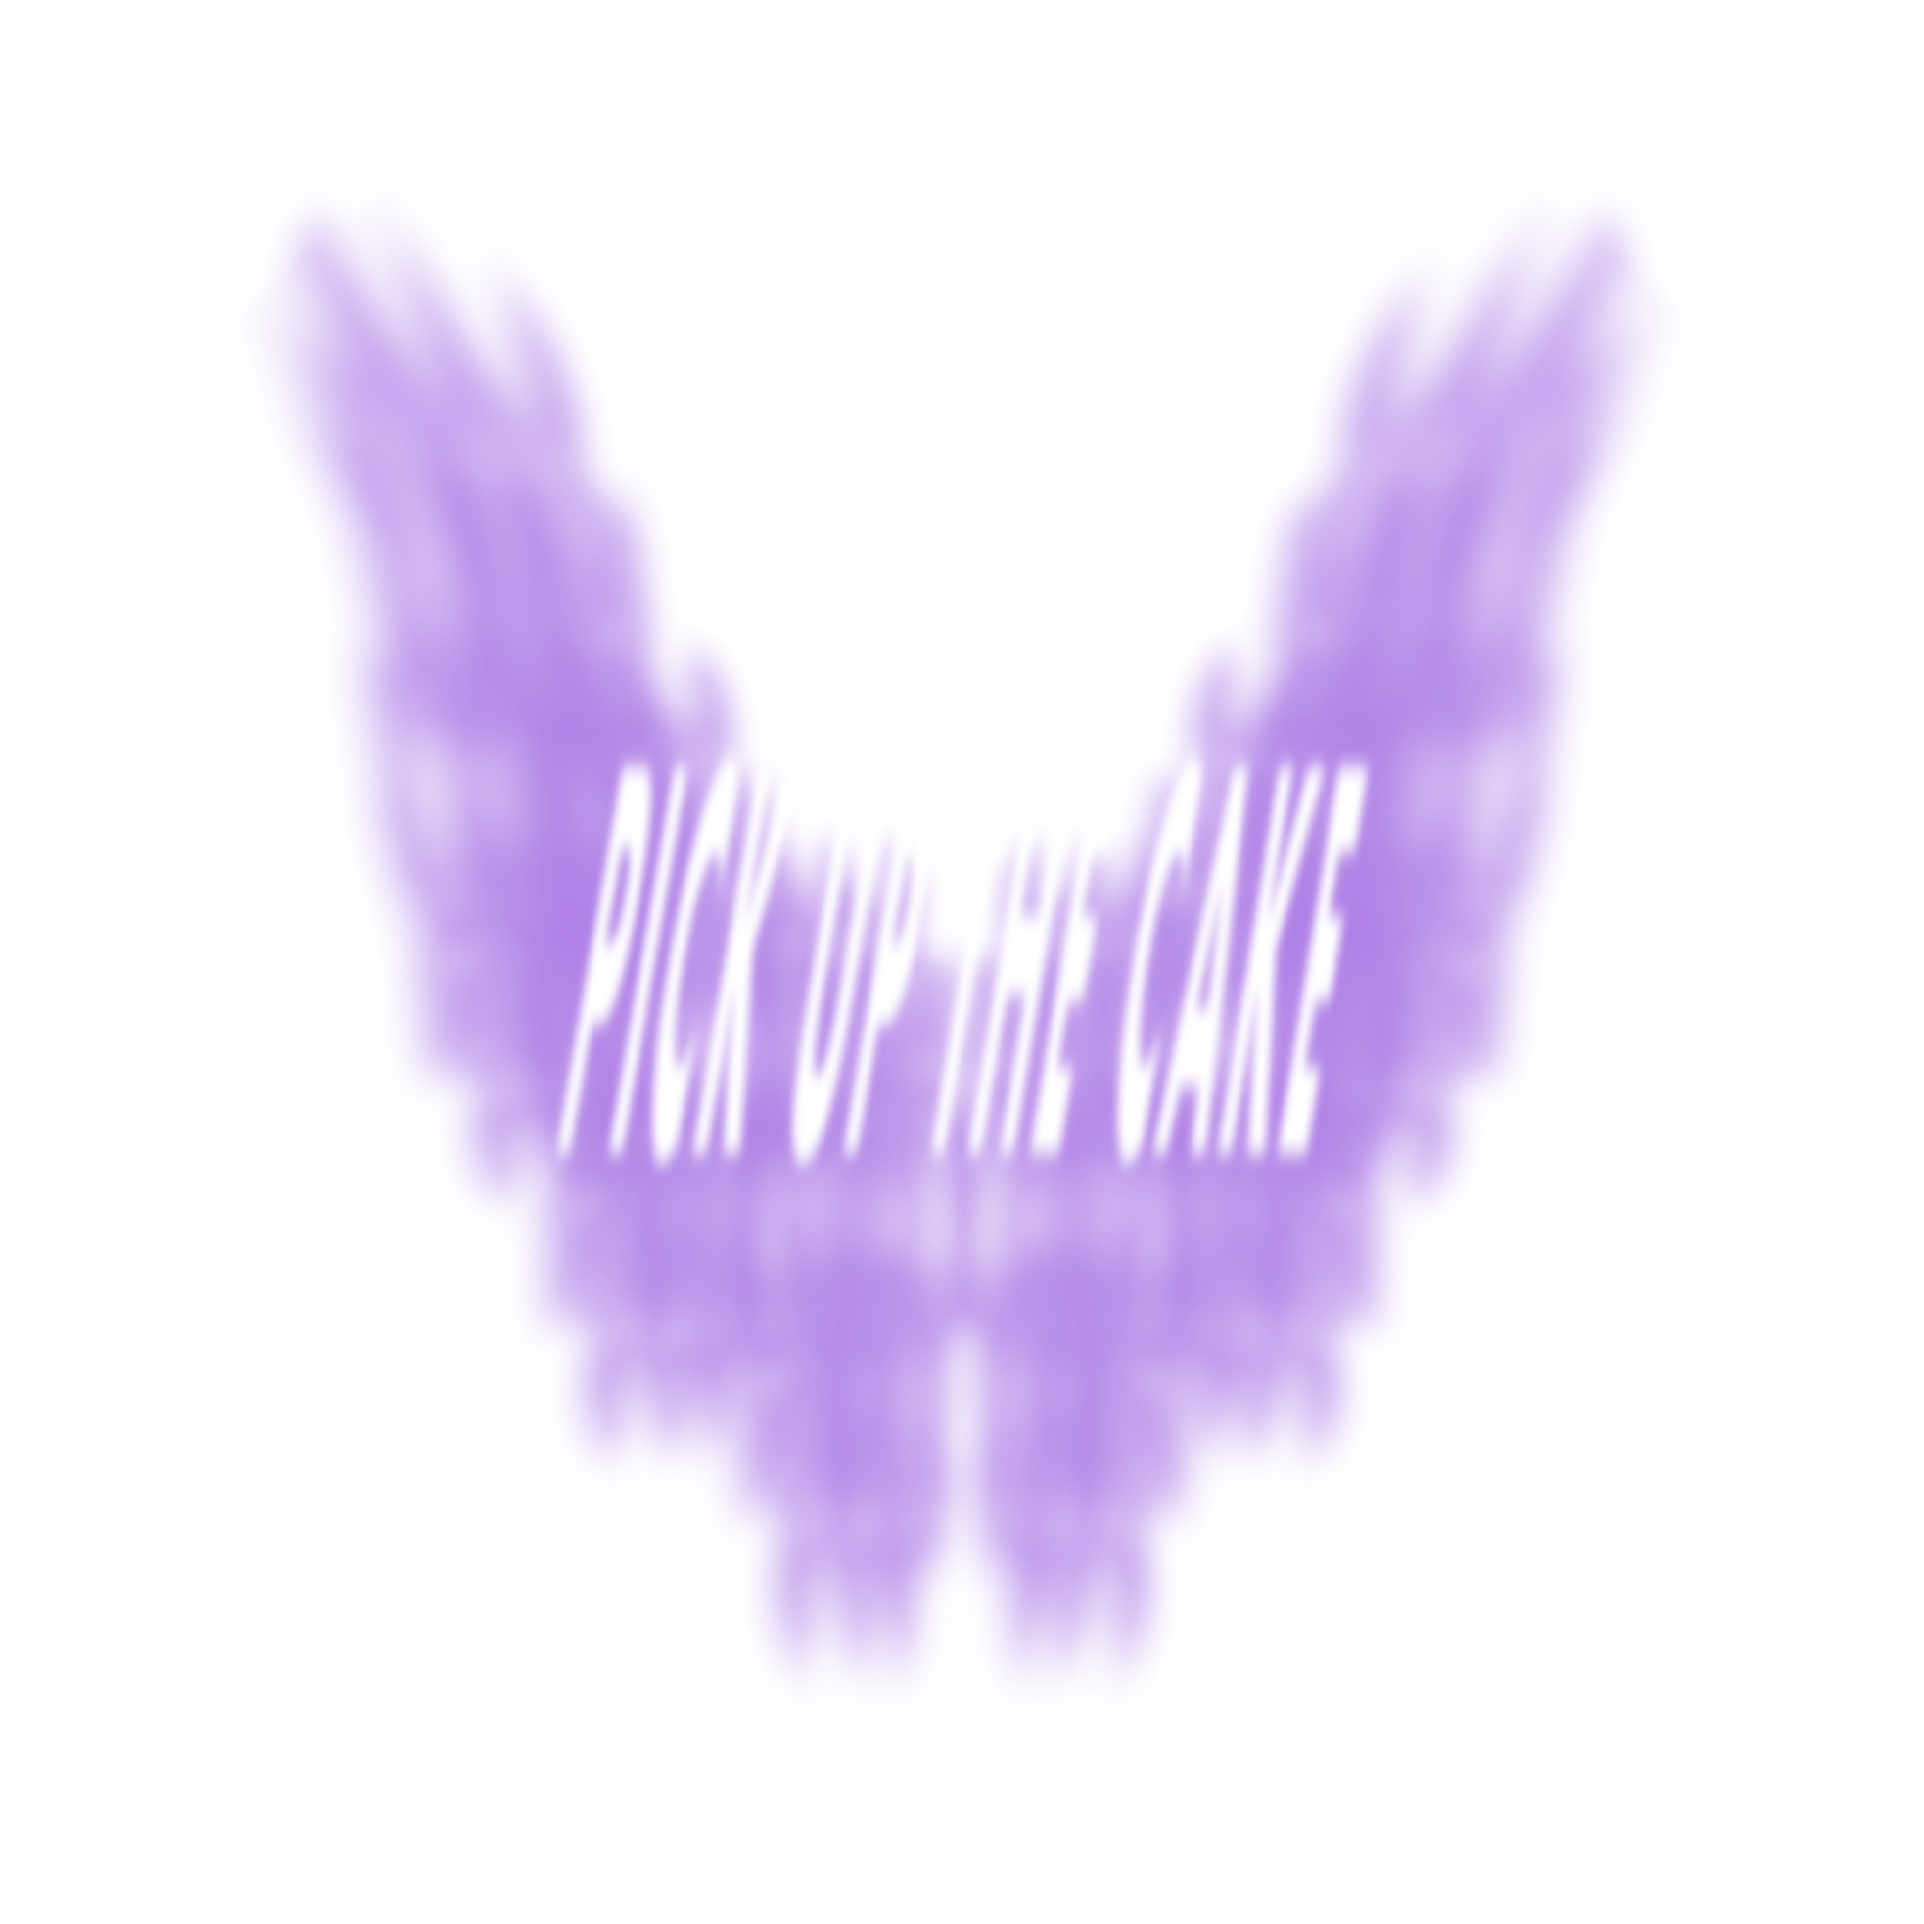
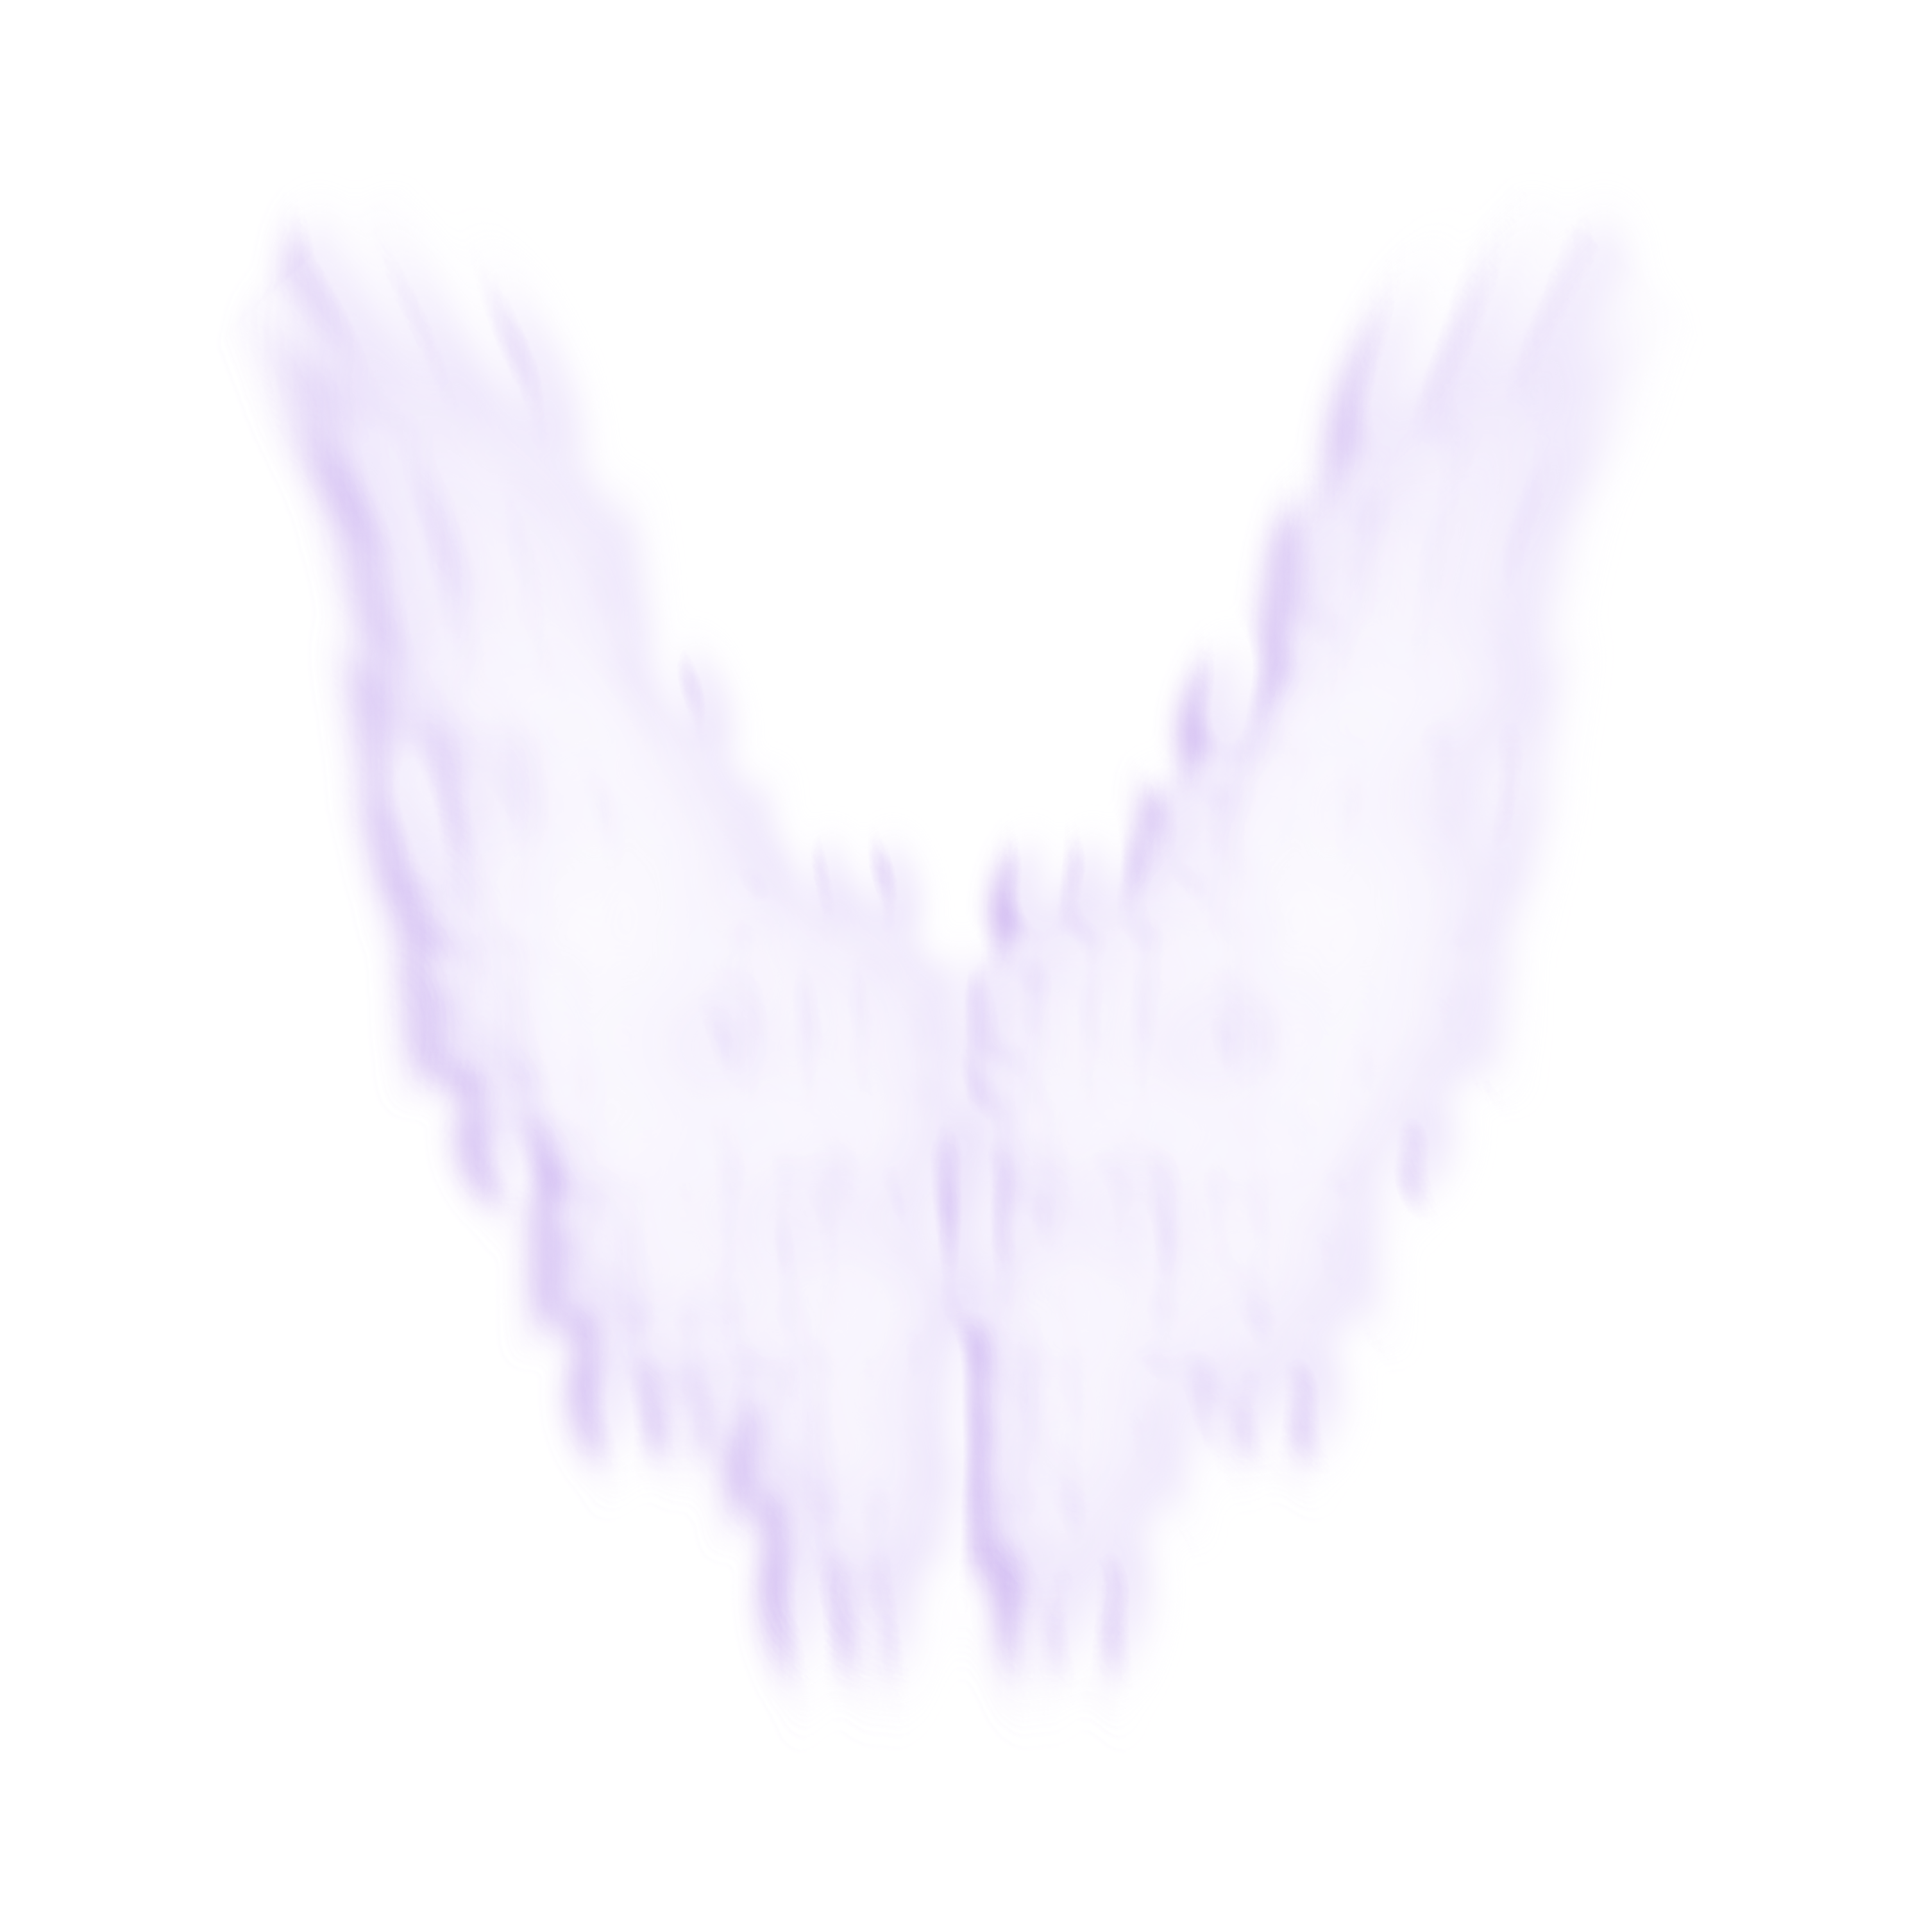
Upadate, index.html, and all html

Changed region(s): [[0.155, 0.124, 0.868, 0.868]]

diff --git a/index.html b/index.html
@@ -412,12 +412,12 @@
 </style>
 <body>
     <div class="nav-container">
-        <a href="about.html" class="nav-item">About</a>
-        <a href="contact.html" class="nav-item">Contact</a>
+        <a href="about.html" class="nav-item">ABOUT</a>
+        <a href="contact.html" class="nav-item">CONTACT</a>
     </div>
     <div class="artwork-container">
         <a href="http://pickupthecake.xyz">
-            <img src="artworw-purp.png" alt="Artwork Purple">
+            <img src="artworw-white.png" alt="Artwork Purple">
         </a>
     </div>
     <div class="images-container">
@@ -425,9 +425,6 @@
             <a href="album.html">
                 <img src="ARWORK/Artworkdef.jpg" alt="Artwork Default">
             </a>
-        </div>
-        <div class="image-box">
-            <img src="ARWORK/MST_TOTAL.png" alt="MST Total">
         </div>
     </div>
 

diff --git a/about.html b/about.html
@@ -185,13 +185,13 @@
 <body>
     
     <div class="nav-container">
-        <a href="index.html" class="nav-item">About</a>
-        <a href="contact.html" class="nav-item">Contact</a>
+        <a href="index.html" class="nav-item">ABOUT</a>
+        <a href="contact.html" class="nav-item">CONTACT</a>
     </div>
 
     <div class="artwork-container">
         <a href="http://pickupthecake.xyz">
-            <img src="artworw-purp.png" alt="Artwork Purple">
+            <img src="artworw-white.png" alt="Artwork Purple">
         </a>
     </div>
 

diff --git a/contact.html b/contact.html
@@ -236,8 +236,8 @@
 </style>
 <body>
     <div class="nav-container">
-        <a href="about.html" class="nav-item">About</a>
-        <a href="#" class="nav-item">Contact</a>
+        <a href="about.html" class="nav-item">ABOUT</a>
+        <a href="#" class="nav-item">CONTACT</a>
     </div>
     <div class="artwork-container">
         <a href="index.html">

diff --git a/album.html b/album.html
@@ -439,8 +439,8 @@
 </head>
 <body>
     <div class="nav-container">
-        <a href="about.html" class="nav-item">About</a>
-        <a href="contact.html" class="nav-item">Contact</a>
+        <a href="about.html" class="nav-item">ABOUT</a>
+        <a href="contact.html" class="nav-item">CONTACT</a>
     </div>
 
     <div class="artwork-container">
